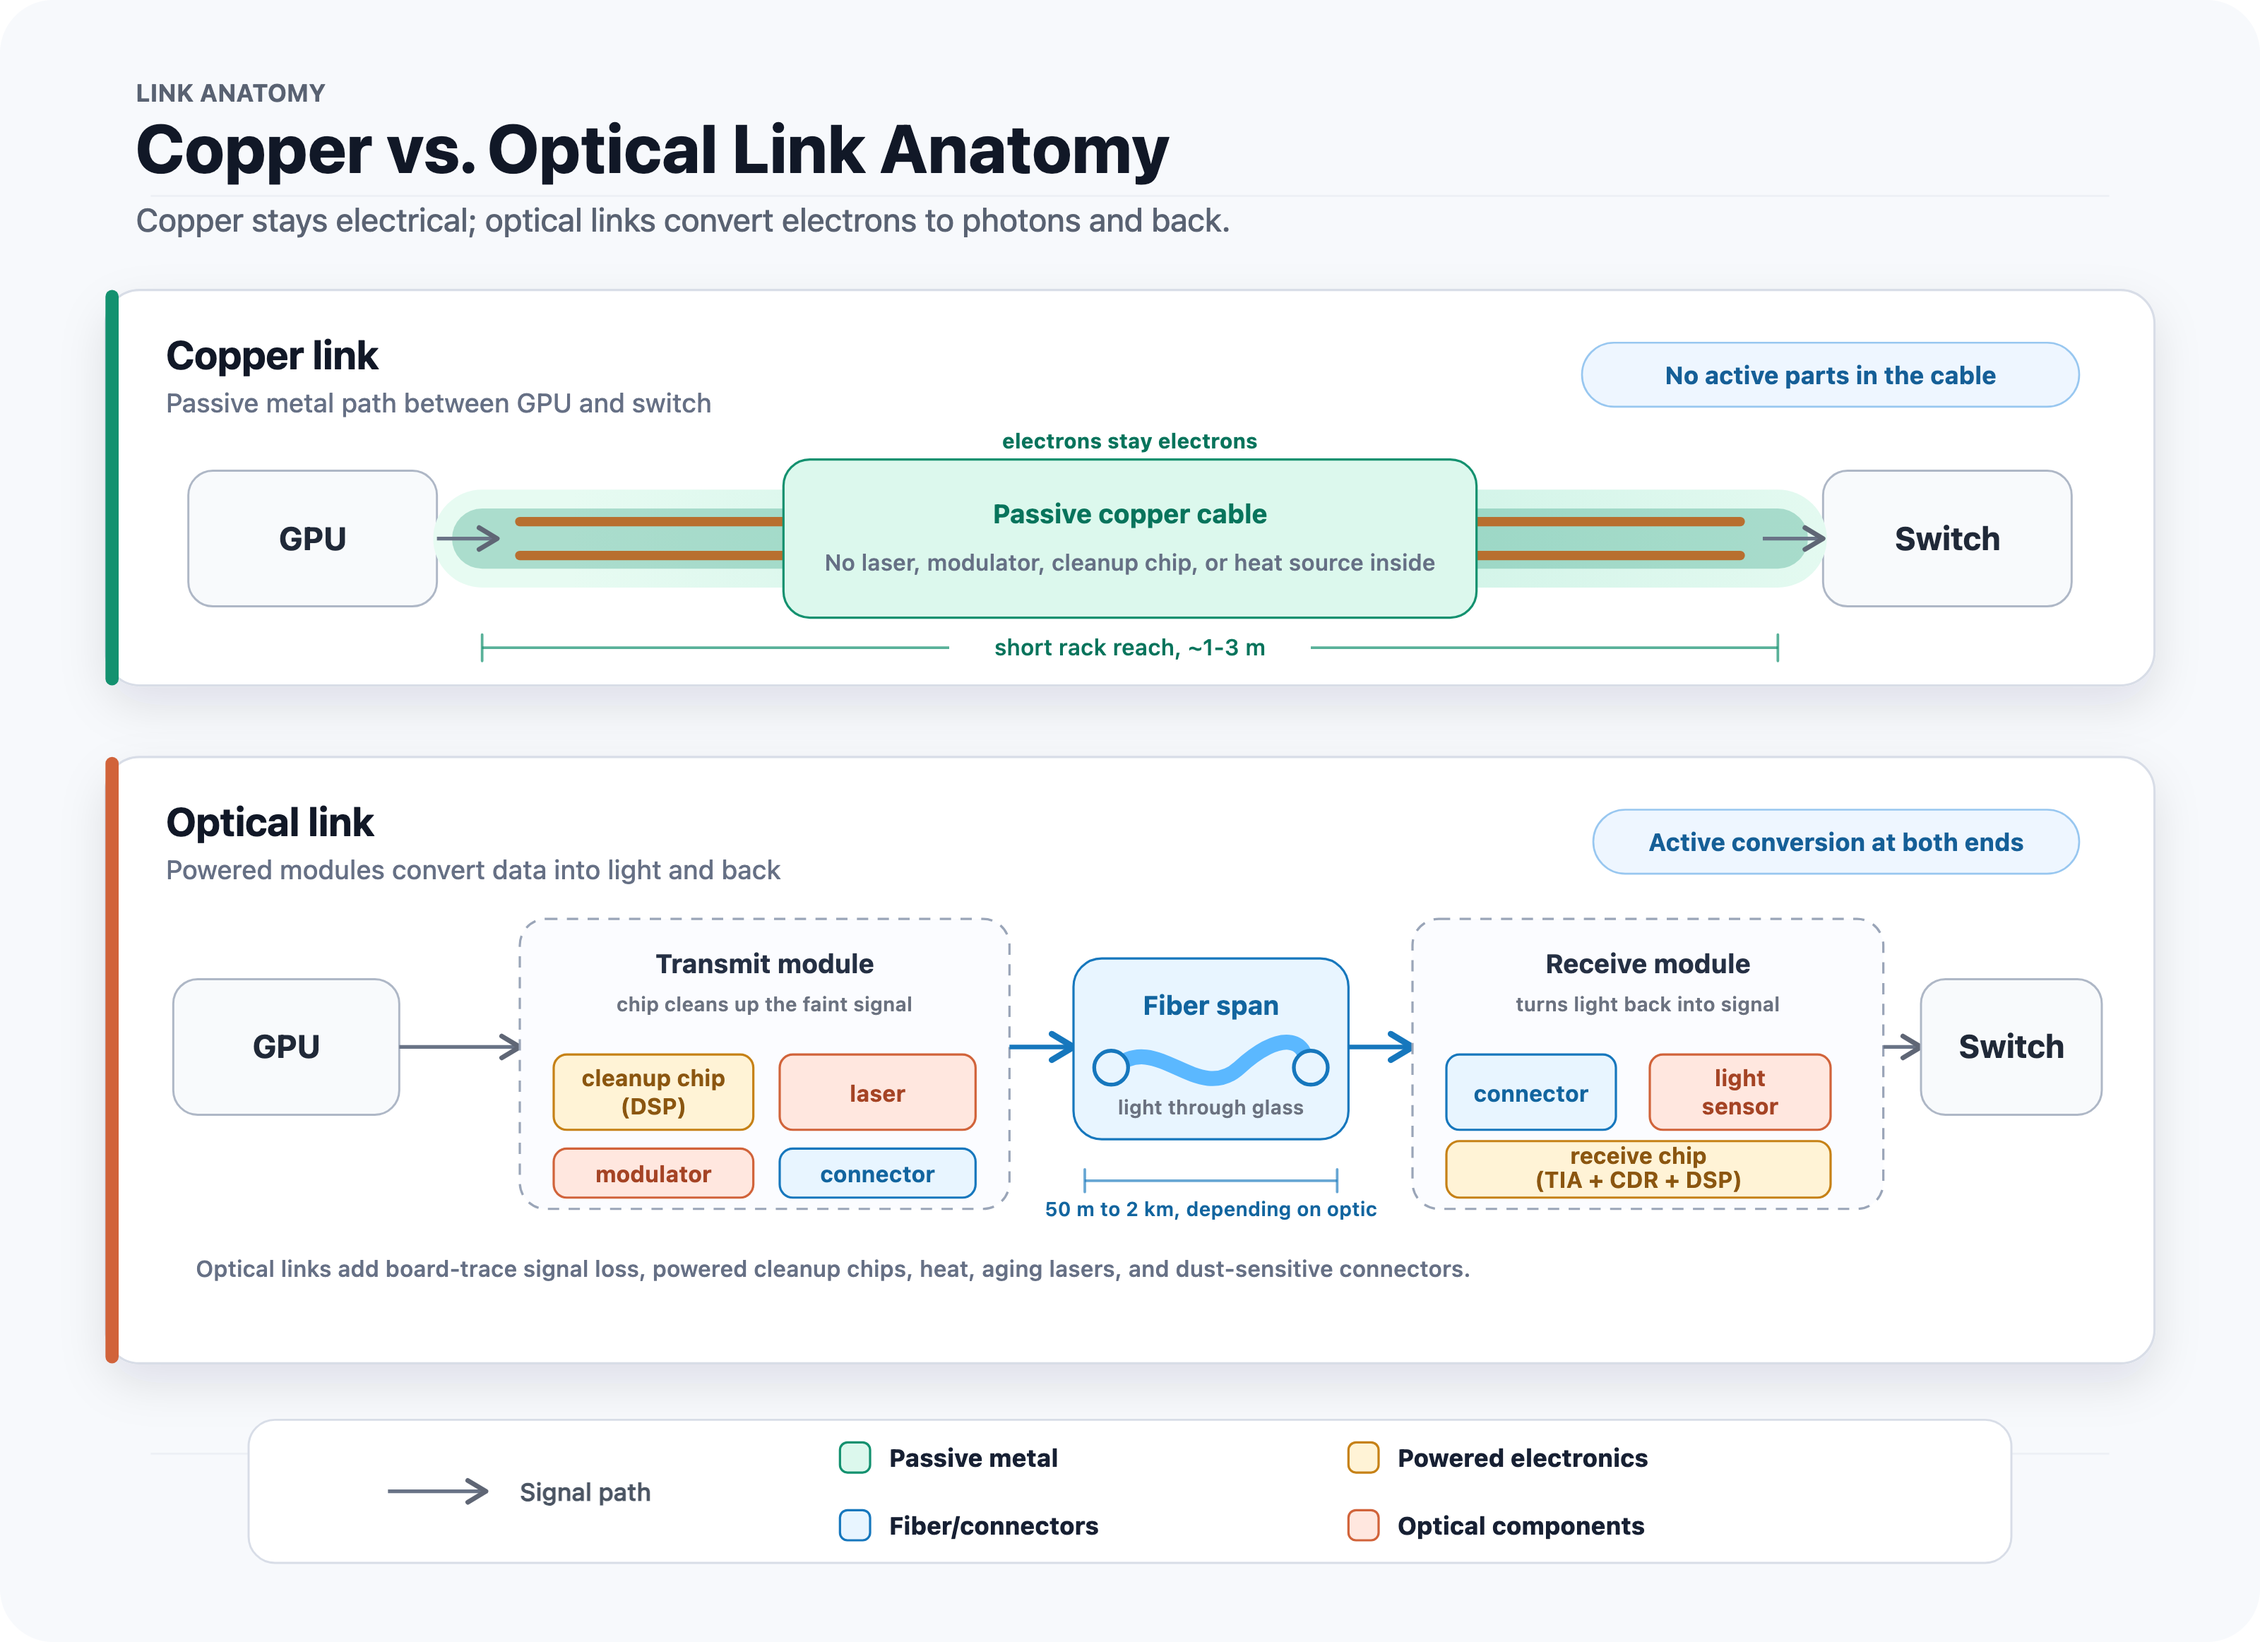
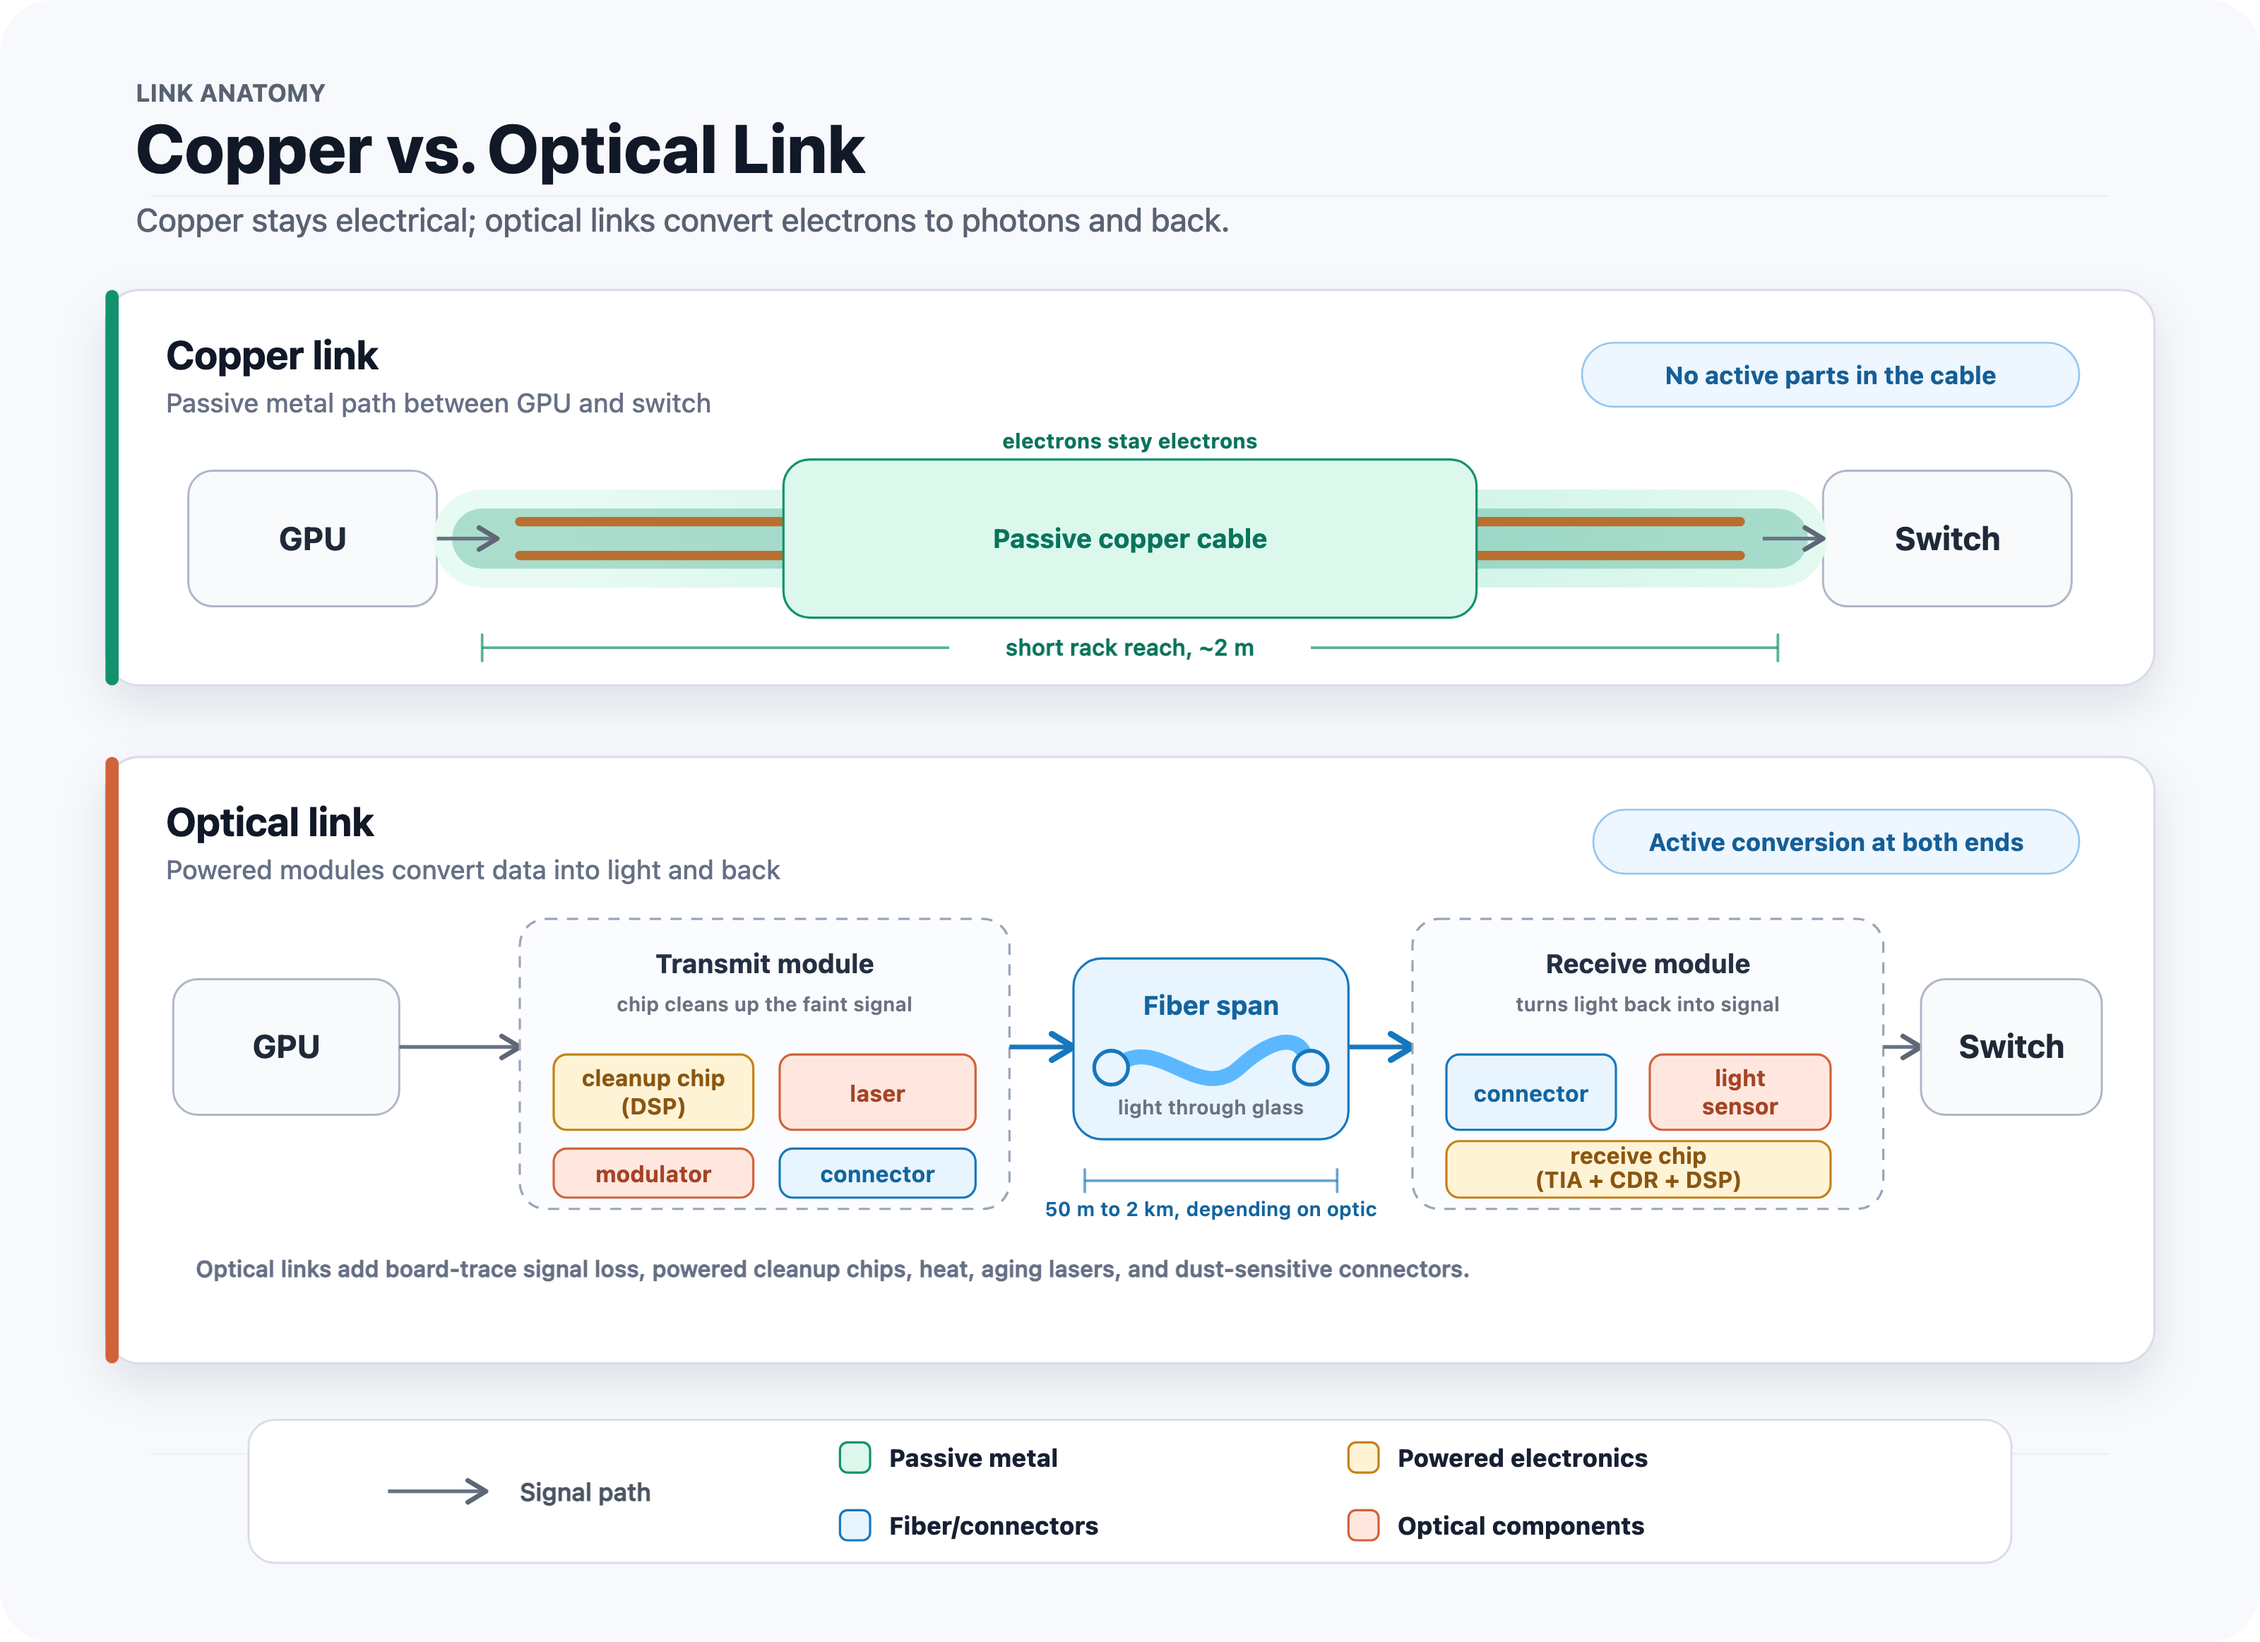
Updates

Changed region(s): [[0.375, 0.3097, 0.625, 0.4026], [0.375, 0.0619, 0.5312, 0.1239]]

diff --git a/_posts/demystifying-semivc-four.md b/_posts/demystifying-semivc-four.md
@@ -45,7 +45,7 @@ Andy Reid built the Chiefs' offense around Alex Smith's strengths, emphasizing e
 
 Nvidia is now running a similar succession plan to transition from copper-based scale-up to co-packaged optics (CPO). Co-packaging moves the optics from the plug-in module at the front of the box to right beside the chip, and because the signal no longer has to cross the circuit board, the pluggable DSP is removed. The laser remains the exception, staying pluggable in Nvidia's first CPO switches because it is one of the most failure-prone parts of the link and needs to be replaceable outside the package. The savings are dramatic. Where a DSP-based pluggable module burns around 16 watts to deliver 800G of bandwidth, Nvidia's co-packaged version needs 4 to 5 watts, a [roughly 73% cut](https://newsletter.semianalysis.com/i/178153689/cpo-scale-out-power-budgets).
 
-At GTC 2025, Nvidia introduced its first CPO products, and tellingly they were scale-out switches, not scale-up systems. In scale-out, Nvidia is rehearsing its co-packaged optics debut the way Reid sat Mahomes. The switches give the supply chain time to ramp, build a track record on the field, and teach operators to live with optical engines that no longer unplug, all in the network that carries one-ninth the bandwidth of scale-up. The real payoff comes later in scale-up, where retiring copper's two-meter reach would finally let the machine grow beyond a single rack.
+At GTC 2025, Nvidia introduced its first CPO products, which were scale-out switches rather than scale-up systems. In scale-out, Nvidia is rehearsing its co-packaged optics debut the way Reid sat Mahomes. The switches give the supply chain time to ramp, build a track record on the field, and teach operators to live with optical engines that no longer unplug, all in the network that carries one-ninth the bandwidth of scale-up. The real payoff comes later in scale-up, where retiring copper's two-meter reach would finally let the machine grow beyond a single rack.
 
 Along the way, Nvidia has been buying its way into the optics supply chain, and investors hunting for the Amphenol of optics have bet on every name it touches. In March 2026, it took sizeable stakes in Lumentum and Coherent, which are expected to supply the [high-power lasers](https://newsletter.semianalysis.com/i/178153689/external-laser-source-els) at the heart of co-packaged optics, with SemiAnalysis expecting Lumentum to supply Nvidia's initial CPO switch shipments and Coherent to enter behind it as a second supplier in late 2026. Nvidia also [partnered with Corning](https://nvidianews.nvidia.com/news/nvidia-and-corning-announce-long-term-partnership-to-strengthen-us-manufacturing-for-ai-infrastructure), the company that draws the glass fiber itself, taking a warrant package worth up to [$3.2 billion](https://www.cnbc.com/2026/05/06/nvidia-corning-optical-factories-nc-texas-ai.html) if fully exercised and backing three new plants in North Carolina and Texas that will grow Corning's US optical connectivity capacity tenfold. The money came with multibillion-dollar purchase commitments and reserved manufacturing capacity, aimed squarely at the flaws that kept silicon photonics stuck in the lab for a decade.
 
@@ -53,11 +53,11 @@ Since March, Nvidia has put around $6.5 billion into the optical supply chain, w
 
 | Company | Amount | Price per share | Announced | Role in the chain |
 |---|---|---|---|---|
-| Lumentum | $2B convertible preferred | $695.31 | Mar 2026 | High-power external lasers, where SemiAnalysis expects Lumentum to be the sole supplier for Nvidia's initial CPO switch shipments |
-| Coherent | $2B common stock | $256.80 | Mar 2026 | Lasers again, with SemiAnalysis expecting Coherent to enter as a second supplier in late 2026 |
-| Marvell | $2B convertible preferred | $91.84 conversion price | Mar 2026 | Silicon photonics and networking silicon, bundled with NVLink Fusion |
-| Corning | $500M for warrants, rising to $3.2B if the traditional warrant is exercised in full | $180.00 traditional warrant strike | May 2026 | The fiber itself, alongside a partnership funding three new US plants |
+| Lumentum | $2B convertible preferred | $695.31 | Mar 2026 | High-power external lasers; SemiAnalysis expects Lumentum to be the sole supplier for Nvidia's initial CPO switch shipments |
+| Coherent | $2B common stock | $256.80 | Mar 2026 | High-power external lasers; SemiAnalysis expects Coherent to enter as a second supplier in late 2026 |
 | Ayar Labs | Participated in a [$500M Series E](https://ayarlabs.com/news/ayar-labs-closes-500m-series-e-accelerates-volume-production-of-co-packaged-optics) | $3.75B post-money valuation | Mar 2026 | Optical I/O chiplet startup |
+| Marvell | $2B convertible preferred | $91.84 conversion price | Mar 2026 | Silicon photonics and networking silicon, bundled with NVLink Fusion |
+| Corning | $500M for warrants, <br> rising to $3.2B if the traditional warrant is exercised in full | $180.00 traditional warrant strike | May 2026 | The fiber itself, alongside a partnership funding three new US plants |
 
 The market is not waiting for the handoff. Experts describe [CPO for scale-up as not a matter of if and why, but when and how](https://newsletter.semianalysis.com/p/co-packaged-optics-cpo-book-scaling), and the prices agree. Nvidia paid $695.31 per share for its Lumentum stake in March, valuing the company at roughly $67 billion fully diluted on about $3 billion in revenue, and the stock has traded well above that level since. Investors should notice that the most informed buyer in the room is not paying for a promising rookie. The sticker price far exceeds what the Chiefs paid for Mahomes. Nvidia bought in at 84 times this year's [expected non-GAAP earnings](https://finance.yahoo.com/markets/stocks/articles/lumentum-stock-portfolio-pre-q4-171600793.html), and as of August 7 the public pays over a hundred, prices that both warrant multiple Super Bowls. It is worth doing that arithmetic out loud ...
 
